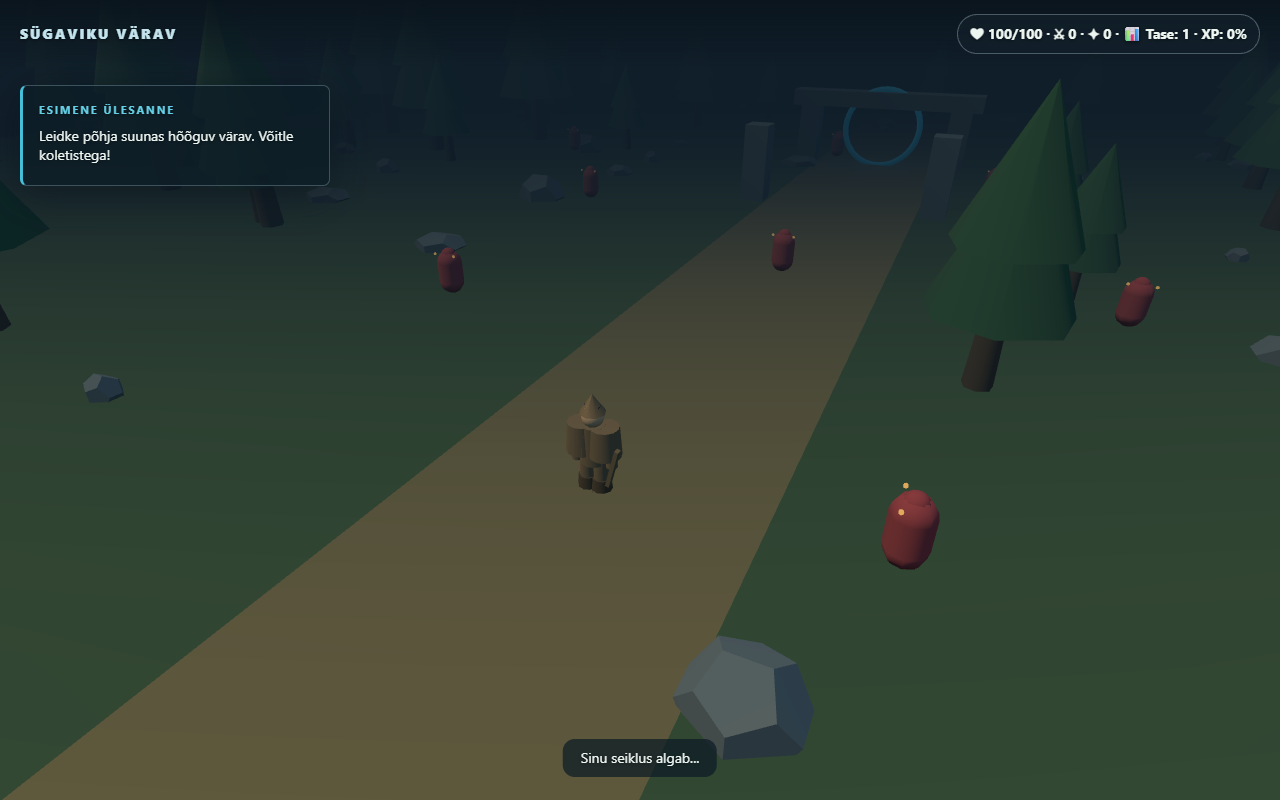
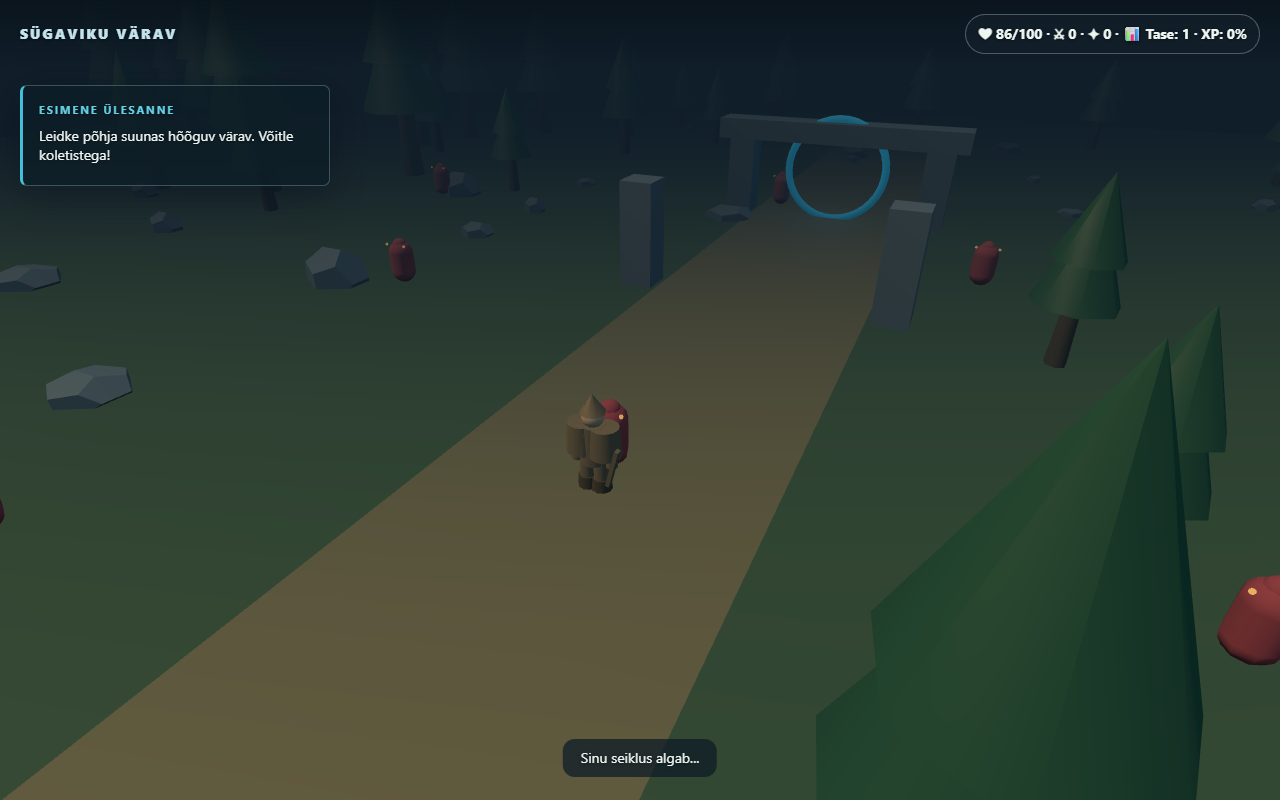
Sügaviku Värav: publish 29/77 tested RPG snapshot and 11:07 phone screenshots

diff --git a/rpg5h-20261102/src/hero.js b/rpg5h-20261102/src/hero.js
@@ -1,19 +1,49 @@
 import * as THREE from 'three';
+
 export function createHero(scene){
  const hero=new THREE.Group();scene.add(hero);
- const armor=new THREE.MeshStandardMaterial({color:0x8b7355,roughness:.6,metalness:.4}),cloth=new THREE.MeshStandardMaterial({color:0x2a7894,roughness:.85}),skin=new THREE.MeshStandardMaterial({color:0xc49a75});
+ // Materials with improved silhouette properties
+ const armor=new THREE.MeshStandardMaterial({color:0x8b7355,roughness:.6,metalness:.4}),
+ cloth=new THREE.MeshStandardMaterial({color:0x2a7894,roughness:.85}),
+ skin=new THREE.MeshStandardMaterial({color:0xc49a75});
+
+ // Core Body
  const chest=new THREE.Mesh(new THREE.CylinderGeometry(.35,.38,1.2,16),armor);chest.position.y=1.5;hero.add(chest);
+ hero.userData.chest = chest;
+
+ // Shoulders (Improved silhouette with slight offset)
  const shoulders=[-1,1].map(s=>{const p=new THREE.Mesh(new THREE.CylinderGeometry(.42,.48,0.9,12),armor);p.position.set(s*.35,1.65,0);hero.add(p)});
+ hero.userData.shoulders = shoulders;
+
+ // Gauntlets
  const gauntlets=[-1,1].map(s=>{const g=new THREE.Mesh(new THREE.CylinderGeometry(.14,.17,0.8,10),armor);g.position.set(s*.55,1.25,0);hero.add(g)});
+ hero.userData.gauntlets = gauntlets;
+
+ // Plates
  const chestPlate=new THREE.Mesh(new THREE.BoxGeometry(.6,.3,.2),armor);chestPlate.position.y=1.4;hero.add(chestPlate);
  const backPlate=new THREE.Mesh(new THREE.BoxGeometry(.58,.25,.18),armor);backPlate.position.y=1.4;hero.add(backPlate);
+
+ // Head & Helm
  const head=new THREE.Mesh(new THREE.SphereGeometry(.32,16,12),skin);head.position.y=2.35;hero.add(head);
+ hero.userData.head = head;
  const helm=new THREE.Mesh(new THREE.ConeGeometry(.38,.56,8),armor);helm.position.y=2.75;hero.add(helm);
- const visor=new THREE.Mesh(new THREE.BoxGeometry(.45,.08,.12),new THREE.MeshStandardMaterial({color:0x1a1a2e}));visor.position.set(0,2.65,0);hero.add(visor);
+ const visor=new THREE.Mesh(new THREE.BoxGeometry(.45,.08,.12),new THREE.MeshStandardMaterial({color:0x1a1a2e,emissive:0x333333}));visor.position.set(0,2.65,0);hero.add(visor);
+ hero.userData.visor = visor;
+
+ // Legs & Boots
  for(const side of [-1,1]){const leg=new THREE.Mesh(new THREE.CylinderGeometry(.22,.24,1.3,12),armor);leg.position.set(side*.22,.62,0);hero.add(leg)};
  const boots=[-1,1].map(s=>{const b=new THREE.Mesh(new THREE.CylinderGeometry(.28,.32,0.5,10),new THREE.MeshStandardMaterial({color:0x4a3b2a}));b.position.set(s*.22,.15,0);hero.add(b)});
+ hero.userData.boots = boots;
+
+ // Weapons & Accessories (Adjusted for better silhouette)
  const sword=new THREE.Mesh(new THREE.BoxGeometry(.12,1.25,.18),armor);sword.position.set(.73,1.03,.3);sword.rotation.z=-.25;hero.add(sword);
+ hero.userData.sword = sword;
  const shield=new THREE.Mesh(new THREE.CylinderGeometry(.45,.5,1.6,16),new THREE.MeshStandardMaterial({color:0x8b7355}));shield.position.set(-.5,-.1,-.8);hero.add(shield);
+ hero.userData.shield = shield;
+
+ // Cape (Animated flow)
  const cape=new THREE.Mesh(new THREE.ConeGeometry(.25,.75,4),cloth);cape.position.y=1.6;cape.rotation.x=.3;hero.add(cape);
- hero.position.set(0,0,19);return {group:hero,hp:100,maxHp:100,xp:0,level:1,gold:0,kills:0,attackCooldown:0};
+ hero.userData.cape = cape;
+
+ return {group:hero,hp:100,maxHp:100,xp:0,level:1,gold:0,kills:0,attackCooldown:0};
 }

diff --git a/rpg5h-20261102/src/atmosphere.js b/rpg5h-20261102/src/atmosphere.js
@@ -1,0 +1,77 @@
+import * as THREE from 'three'
+
+export function createAtmosphere(scene) {
+  const params = {
+    fogColor: new THREE.Color(0x1a2b4c),
+    dayFog: new THREE.Color(0x87ceeb),
+    duskFog: new THREE.Color(0xff6b35),
+    nightFog: new THREE.Color(0x0d1b2a),
+    particleCount: 500,
+    time: 0.5,
+    dayTime: 0.5,
+    duskTime: 0.75,
+    nightTime: 0.95
+  }
+
+  const fog = new THREE.FogExp2(params.fogColor, 10)
+  scene.fog = fog
+
+  const positions = new Float32Array(params.particleCount * 3)
+  const colors = new Float32Array(params.particleCount * 3)
+  const sizes = new Float32Array(params.particleCount)
+  
+  for (let i = 0; i < params.particleCount; i++) {
+    positions[i * 3] = (Math.random() - 0.5) * 100
+    positions[i * 3 + 1] = Math.random() * 20
+    positions[i * 3 + 2] = (Math.random() - 0.5) * 100
+    sizes[i] = Math.random() * 2 + 0.5
+    
+    const color = new THREE.Color()
+    color.setHSL(Math.random(), 0.7, 0.6)
+    colors[i * 3] = color.r
+    colors[i * 3 + 1] = color.g
+    colors[i * 3 + 2] = color.b
+  }
+  
+  const geometry = new THREE.BufferGeometry()
+  geometry.setAttribute('position', new THREE.BufferAttribute(positions, 3))
+  geometry.setAttribute('color', new THREE.BufferAttribute(colors, 3))
+  geometry.setAttribute('size', new THREE.BufferAttribute(sizes, 1))
+  
+  const material = new THREE.PointsMaterial({
+    size: 0.5, vertexColors: true, transparent: true, opacity: 0.8, blending: THREE.AdditiveBlending
+  })
+  
+  const particleSystem = new THREE.Points(geometry, material)
+  scene.add(particleSystem)
+
+  return {
+    update(dt) {
+      params.time += dt * 0.2
+      if (params.time > 1) params.time = 0
+      
+      const dayColor = params.dayFog.clone().lerp(params.nightFog, Math.min(1, params.time - params.duskTime))
+      fog.color.lerpColors(dayColor, params.fogColor, params.time < 0.5 ? 1 : 0)
+      
+      const positions = geometry.attributes.position.array
+      for (let i = 0; i < params.particleCount; i++) {
+        positions[i * 3 + 1] += Math.sin(params.time * 2 + i) * 0.05
+      }
+      geometry.attributes.position.needsUpdate = true
+      
+      const colors = geometry.attributes.color.array
+      for (let i = 0; i < params.particleCount; i++) {
+        const t = (params.time - params.duskTime) % 1
+        const intensity = Math.sin(t * Math.PI * 2 + i * 0.1) * 0.5 + 0.5
+        colors[i * 3] *= intensity
+        colors[i * 3 + 1] *= intensity
+        colors[i * 3 + 2] *= intensity
+      }
+      geometry.attributes.color.needsUpdate = true
+    },
+    dispose() {
+      particleSystem.geometry.dispose()
+      particleSystem.material.dispose()
+    }
+  }
+}

diff --git a/rpg5h-20261102/src/enemies.js b/rpg5h-20261102/src/enemies.js
@@ -10,7 +10,7 @@ export function createEnemy(scene,x,z){
  const clawL=new THREE.Mesh(new THREE.TorusGeometry(.06,.03,4,8,Math.PI),skin);clawL.position.set(-.25,1.7,.2);clawL.rotation.x=Math.PI/2;root.add(clawL);
  const clawR=new THREE.Mesh(new THREE.TorusGeometry(.06,.03,4,8,Math.PI),skin);clawR.position.set(.25,1.7,.2);clawR.rotation.x=Math.PI/2;root.add(clawR);
  root.position.set(x,0,z);scene.add(root);
- return {group:root,hp:40,maxHp:40,speed:1.5,damage:7,attackCooldown:0};
+ return {group:root,hp:40,maxHp:40,speed:1.5,damage:7,attackCooldown:0,isDead:false};
 }
 export function spawnEnemies(scene,count=8){
  const enemies=[];
@@ -18,13 +18,21 @@ export function spawnEnemies(scene,count=8){
  return enemies;
 }
 export function updateEnemies(enemies,hero,dt){
- for(const e of enemies){e.attackCooldown-=dt;
+ for(const e of enemies){
+  if(e.isDead)continue;
+  e.attackCooldown-=dt;
   const dx=hero.group.position.x-e.group.position.x,dz=hero.group.position.z-e.group.position.z,d=Math.hypot(dx,dz);
   if(d<15&&d>1.25){e.group.position.x+=dx/d*e.speed*dt;e.group.position.z+=dz/d*e.speed*dt;e.group.rotation.y=Math.atan2(dx,dz);}
   else if(d<=1.25&&e.attackCooldown<=0){hero.hp=Math.max(0,hero.hp-e.damage);e.attackCooldown=1.3;}
   const distToHero=d/Math.max(1,d-1.25);
   e.group.children[0].scale.setScalar(1+Math.min(distToHero*.3,0.4));
-  if(e.group.children[2]&&e.group.children[3]){const cL=e.group.children[2],cR=e.group.children[3];
-   cL.position.x=-.25*(1+distToHero);cR.position.x=.25*(1+distToHero);}
+  if(e.group.children[2]&&e.group.children[3]){const cL=e.group.children[2],cR=e.group.children[3];cL.position.x=-.25*(1+distToHero);cR.position.x=.25*(1+distToHero);}
  }
 }
+export function takeDamage(enemies,amount){
+ for(const e of enemies)e.hp-=amount;
+ return enemies.filter(e=>e.hp>0);
+}
+export function killEnemy(enemy){enemy.hp=0;enemy.isDead=true;}
+export function getAliveEnemies(enemies){return enemies.filter(e=>!e.isDead);}
+export function scaleLevel(enemies,level){for(const e of enemies)e.speed+=level*0.25;}

diff --git a/rpg5h-20261102/src/world.js b/rpg5h-20261102/src/world.js
@@ -1,5 +1,5 @@
 import * as THREE from 'three';
-const mats={grass:new THREE.MeshStandardMaterial({color:0x344d35,roughness:1}),dirt:new THREE.MeshStandardMaterial({color:0x6b6041,roughness:1}),bark:new THREE.MeshStandardMaterial({color:0x44392f}),leaves:new THREE.MeshStandardMaterial({color:0x244c36}),stone:new THREE.MeshStandardMaterial({color:0x5e696c,roughness:1})};
+const mats={grass:new THREE.MeshStandardMaterial({color:0x344d35,roughness:.9}),dirt:new THREE.MeshStandardMaterial({color:0x6b6041,roughness:.8}),bark:new THREE.MeshStandardMaterial({color:0x44392f,roughness:.7}),leaves:new THREE.MeshStandardMaterial({color:0x244c36,roughness:.5}),stone:new THREE.MeshStandardMaterial({color:0x5e696c,roughness:.8})};
 const rand=(n)=>{let x=Math.sin(n*93.71+1.43)*47521;return x-Math.floor(x);};
 export function createWorld(scene){
  scene.background=new THREE.Color(0x101e2a);scene.fog=new THREE.FogExp2(0x101e2a,0.024);
@@ -14,12 +14,12 @@ export function createWorld(scene){
    if(Math.abs(x)<7&&Math.abs(z)<63)continue;
    const tree=new THREE.Group(),trunk=new THREE.Mesh(trunkGeo,mats.bark);
    trunk.position.y=2.5;tree.add(trunk);
-   for(let j=0;j<2;j++){const crown=new THREE.Mesh(leafGeo,mats.leaves);crown.position.y=5.8+j*1.8;crown.scale.set(1-j*.16,1-j*.18,1-j*.16);tree.add(crown);}
+   for(let j=0;j<2;j++){const crown=new THREE.Mesh(leafGeo,mats.leaves);crown.position.y=5.8+j*1.8;crown.scale.setScalar(.84-j*.16,1-j*.18,.84-j*.16);tree.add(crown);}
    tree.position.set(x,0,z);tree.scale.setScalar(.7+rand(i+75)*.85);root.add(tree);
  }
  for(let i=0;i<65;i++){
    const rock=new THREE.Mesh(new THREE.DodecahedronGeometry(.5+rand(i+300)*1.2,0),mats.stone);
-   rock.position.set((rand(i+101)-.5)*140,.16,(rand(i+871)-.5)*140);
+   rock.position.set((rand(i+101)-.5)*140,.16+(rand(i+9)*.7)*.1,(rand(i+871)-.5)*140);
    rock.scale.set(1,.35+rand(i+9)*.7,.9);root.add(rock);
  }
  const ruin=new THREE.Group(),block=new THREE.BoxGeometry(1.6,5,1.6);
